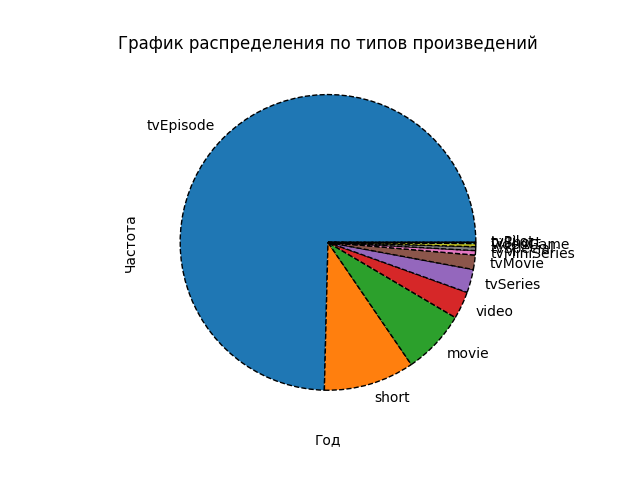
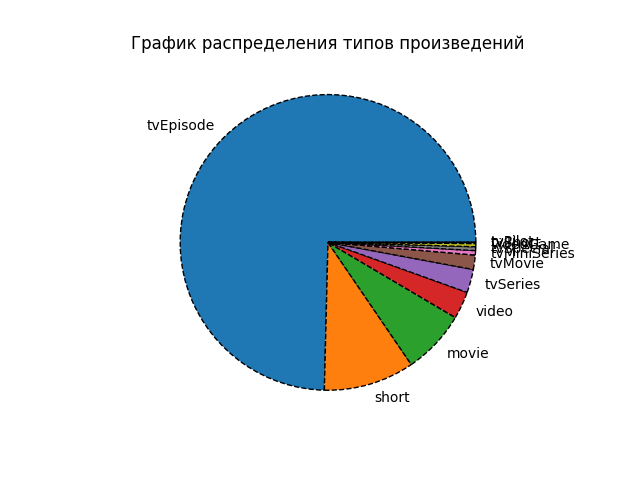
Add one more graph

Changed region(s): [[0.1875, 0.0625, 0.8438, 0.125], [0.1875, 0.4375, 0.2188, 0.5625], [0.5, 0.9062, 0.5312, 0.9375]]

diff --git a/hw6/2.py b/hw6/2.py
@@ -17,9 +17,26 @@ def main():
     plt.clf()
     plt.pie(df['titleType'].value_counts().to_list(), labels=df['titleType'].value_counts().index,
             wedgeprops={'lw': 1, 'ls': '--', 'edgecolor': "k"})
-    plt.title("График распределения по типов произведений")
+    plt.title("График распределения типов произведений")
     plt.savefig("data/title_type_distribution.png")
     plt.clf()
+    df_2020 = df[df["startYear"] == 2020]
+    d = dict()
+    for i in df_2020.index:
+        s = df.loc[i]["genres"]
+        if not type(s) is str:
+            continue
+        s = s.lower()
+        for genre in s.split(","):
+            if genre not in d:
+                d[genre] = 0
+            d[genre] += 1
+    plt.pie(d.values(), labels=d.keys(),
+            wedgeprops={'lw': 1, 'ls': '--', 'edgecolor': "k"})
+    plt.title("График распределения типов произведений в 2020 году")
+    plt.savefig("data/title_type_distribution_2020.png")
+    plt.clf()
+
 
 if __name__ == '__main__':
     main()
